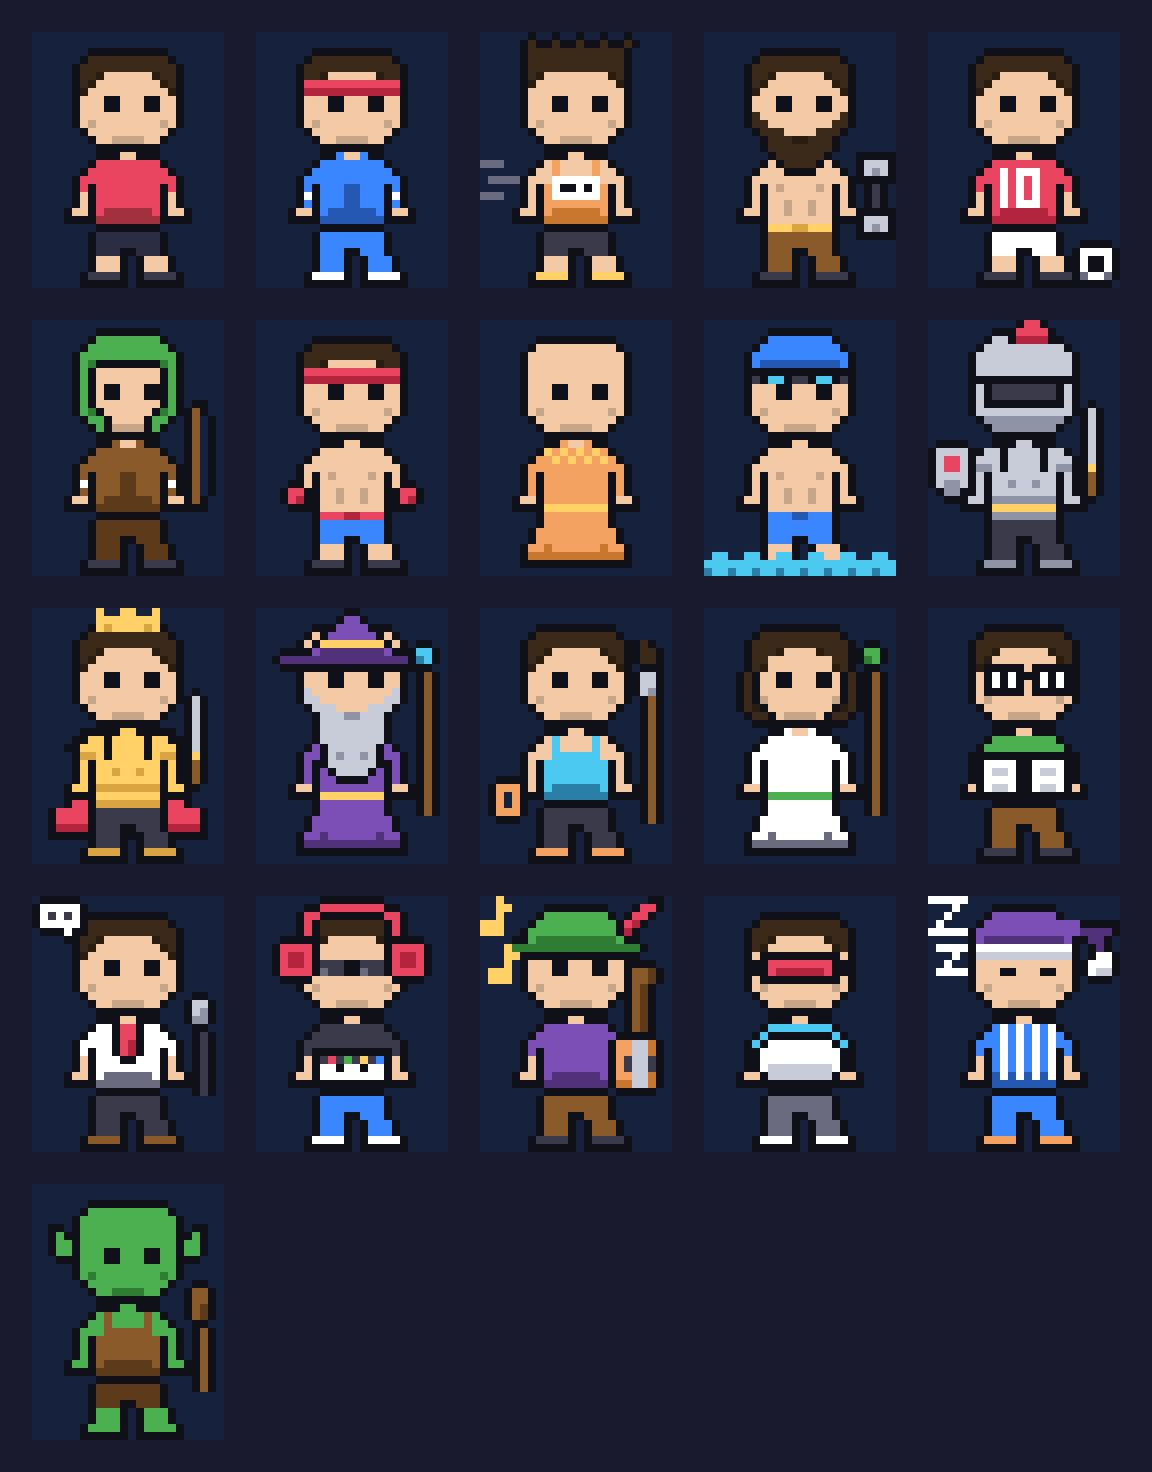
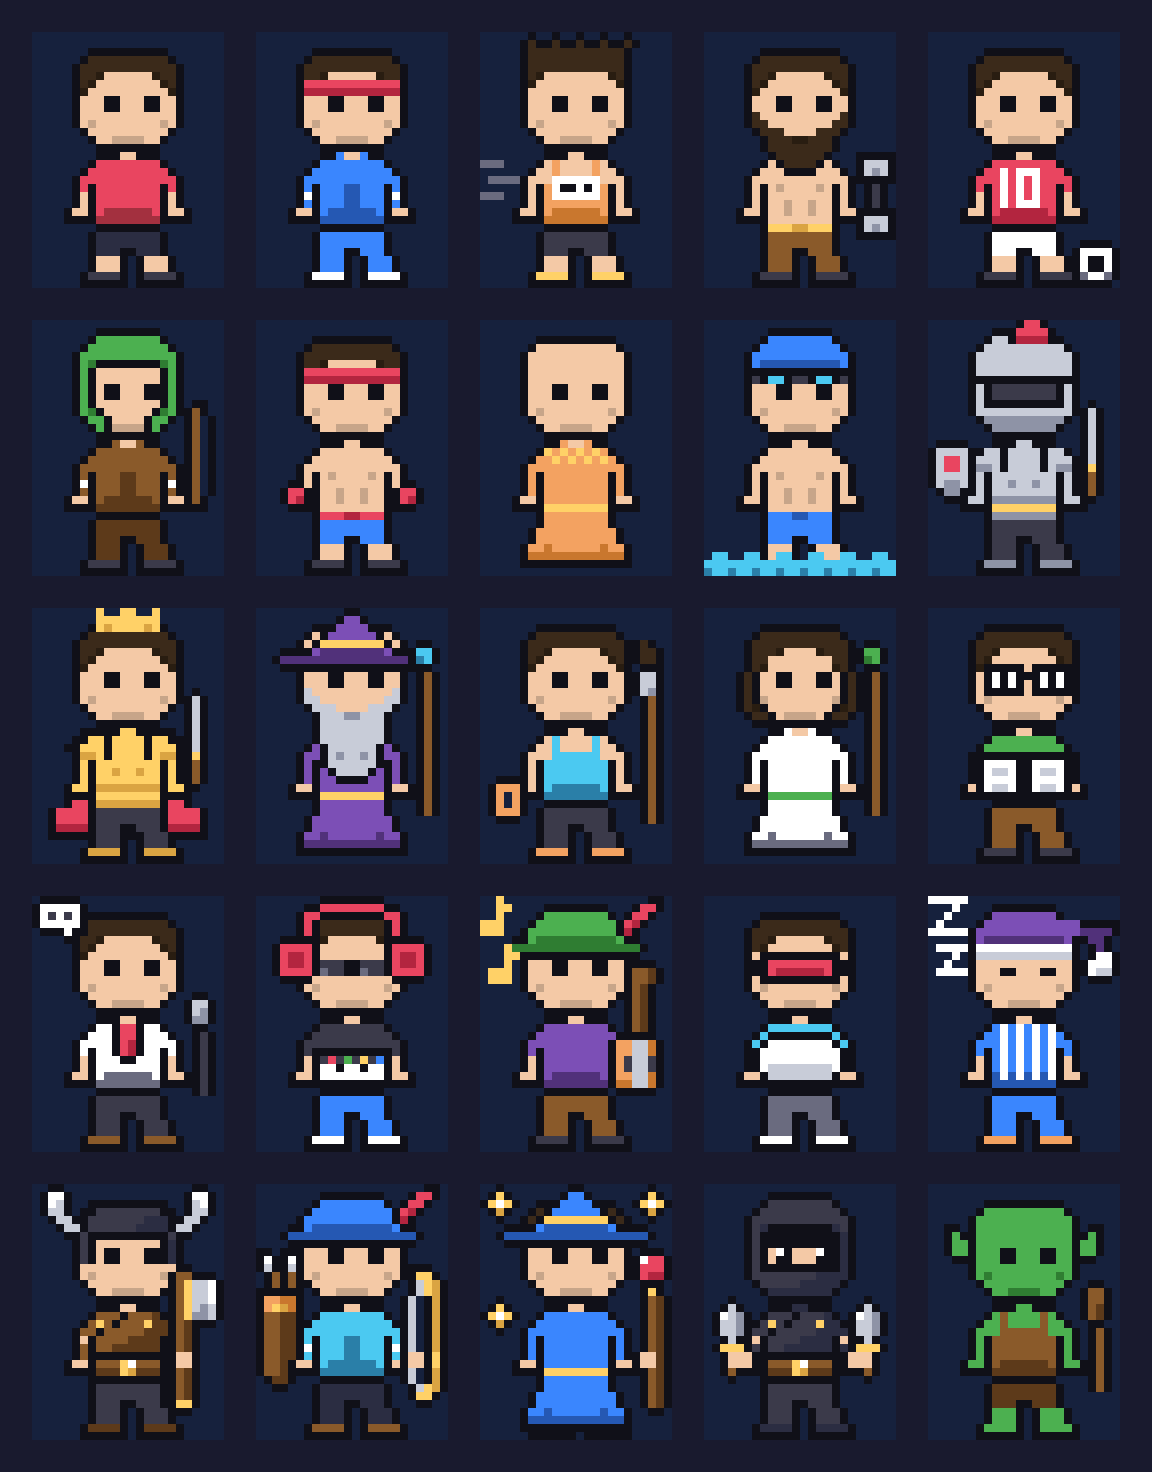
전투 스킨 4종 추가: 전사·궁수·마법사·도적 (Codex 작업)

diff --git a/design/pixel/parts.ts b/design/pixel/parts.ts
@@ -650,3 +650,159 @@ export const ZZZ = part([
   '..W..',
   '.WWWW',
 ], 0, 0)
+
+// ── 전투 직업 파츠: 미배정 시즌 보상 스킨 ──
+/** 얼굴이 드러나는 뿔 투구. 1 주색 2 음영, 뿔은 고정 은색 */
+export const HORNED_HELMET = (c1: string, c2: string) => part([
+  '..KK................KK..',
+  '.KWWK..............KWWK.',
+  '.KWLK...KKKKKKKK...KLWK.',
+  '.KLLK..K11111111K..KLLK.',
+  '..KLLKK1111111222KKLLK..',
+  '...KLLK1111112222KLLK...',
+  '....KK1KKKKKKKKKK1KK....',
+  '.....K1K........K2K.....',
+  '.....K1K........K2K.....',
+  '.....K1K........K2K.....',
+], 0, 0, { 1: c1, 2: c2 })
+
+/** 가죽 조끼·대각선 어깨끈·손목 보호대·버클 허리띠 (1 주색 2 음영) */
+export const LEATHER_ARMOR = (c1: string, c2: string) => part([
+  '........KKKSSKKK........',
+  '.......K111K1112K.......',
+  '......K1Y1K111Y22K......',
+  '.....K11K111112222K.....',
+  '.....KSK11112222KSK.....',
+  '.....K1K11222222K2K.....',
+  '.....K1KKKKKKKKKK2K.....',
+  '....KSSKNNNYWNNNKSSK....',
+  '....KKKKnnnYynnnKKKK....',
+  '.......KKKKKKKKKK.......',
+], 15, 0, { 1: c1, 2: c2 })
+
+/** 넓은 날의 전투 도끼. 2px 목재 자루와 손잡이를 쥔 손까지 몸통 앞에 그린다 */
+export const BATTLE_AXE = part([
+  '.KK....',
+  'KNNKKK.',
+  'KNYLLWK',
+  'KNYLLWK',
+  'KNYLLWK',
+  'KNYLlLK',
+  'KNYllLK',
+  'KNnKKK.',
+  'KNnK...',
+  'KNnK...',
+  'KNnK...',
+  'KSSK...',
+  'KSSK...',
+  'KNnK...',
+  'KNnK...',
+  'KNnK...',
+  'KNnK...',
+  'KYYK...',
+  '.KK....',
+], 10, 17)
+
+/** 왼쪽 어깨 뒤 화살통과 흰 깃 화살 두 개. 머리·몸통보다 먼저 그린다 */
+export const QUIVER = part([
+  'KK.KK.',
+  'KWKKWK',
+  'KLKKLK',
+  '.KNKNK',
+  '.KNKNK',
+  'KKKKKK',
+  'KAAaaK',
+  'KAYyaK',
+  ...Array(8).fill('KNNnnK'),
+  '.KnnK.',
+  '..KK..',
+], 8, 0)
+
+/** 금빛 반곡궁. 은색 시위와 검정 테를 두른 활대를 구분하고 손을 앞에 겹친다 */
+export const RECURVE_BOW = part([
+  '.KKK..',
+  '.KYYK.',
+  '.KLYyK',
+  '.KLYyK',
+  ...Array(7).fill('KL.KyK'),
+  'KSSKYK',
+  'KSSKYK',
+  'KL.KyK',
+  'KL.KyK',
+  '.KLYyK',
+  '.KYYK.',
+  '..KK..',
+], 10, 18)
+
+/** 둥근 구슬과 금빛 받침을 단 지팡이. 1 구슬색 2 구슬 음영 */
+export const ORB_STAFF = (gem: string, gemDark: string) => part([
+  '.KKK.',
+  'KW11K',
+  'K111K',
+  'K122K',
+  '.KKK.',
+  '.KYK.',
+  ...Array(7).fill('.KNnK'),
+  'KSSnK',
+  'KSSnK',
+  ...Array(5).fill('.KNnK'),
+  '..KK.',
+], 8, 19, { 1: gem, 2: gemDark })
+
+/** 모자 양옆과 왼쪽 어깨 옆의 금빛 반짝임. 중앙은 비워 얼굴·모자를 보존한다 */
+export const SPARKLES = part([
+  '..K..................K..',
+  '.KYK................KYK.',
+  'KYWYK..............KYWYK',
+  '.KyK................KyK.',
+  '..K..................K..',
+  ...Array(9).fill('........................'),
+  '..K.....................',
+  '.KYK....................',
+  'KYWYK...................',
+  '.KyK....................',
+  '..K.....................',
+], 0, 0)
+
+/** 후드와 겹쳐 눈만 드러내는 복면. 눈의 흰 점과 목까지 덮는 천 (1 주색 2 음영) */
+export const FACE_WRAP = (c1: string, c2: string) => part([
+  '.....K1KKKKKKKKKK2K.....',
+  '.....K1KKKKKKKKKK2K.....',
+  '.....K1KSWESSSWEK2K.....',
+  '.....K1KSEESSSEEK2K.....',
+  '.....K1KKKKKKKKKK2K.....',
+  '.....K111111112222K.....',
+  '......K1111122222K......',
+  '.......K22222222K.......',
+  '........KKKKKKKK........',
+  '..........K22K..........',
+], 6, 0, { 1: c1, 2: c2 })
+
+/** 쌍단검. 좌우 모두 왼쪽 위에 흰 하이라이트, 손은 몸통 위에 겹친다 */
+export const DAGGER_L = part([
+  '..K...',
+  '.KLK..',
+  'KWLlK.',
+  'KLLlK.',
+  'KLLlK.',
+  '.KLK..',
+  'KYYYK.',
+  '.KSSSK',
+  '.KSSSK',
+  '.KNK..',
+  '..K...',
+], 14, 1)
+
+export const DAGGER_R = part([
+  '...K..',
+  '..KLK.',
+  '.KWLlK',
+  '.KLLlK',
+  '.KLLlK',
+  '..KLK.',
+  '.KYYYK',
+  'KSSSK.',
+  'KSSSK.',
+  '..KNK.',
+  '...K..',
+], 14, 17)

diff --git a/design/pixel/characters.ts b/design/pixel/characters.ts
@@ -95,6 +95,23 @@ export const CHARACTERS: CharacterDef[] = [
     key: 'dreamer', label: '드리머', desc: '슬리퍼의 완성. 수면모자와 줄무늬 잠옷, 머리 위로 zZ.',
     parts: [P.HEAD, P.CLOSED_EYES, P.NIGHTCAP('M', 'm'), P.PAJAMA('B', 'b', 'W'), P.PANTS('B', 'b', 'A'), P.ZZZ],
   },
+  // ── 전투 직업: 미배정 시즌 보상 스킨 ──
+  {
+    key: 'warrior', label: '전사', desc: '뿔 투구와 갈색 가죽 갑옷을 걸치고 커다란 도끼로 전장을 누빈다.',
+    parts: [P.PANTS('X', 'P', 'n'), P.LEATHER_ARMOR('N', 'n'), P.HEAD, P.HAIR_SHORT, P.HORNED_HELMET('X', 'P'), P.BATTLE_AXE],
+  },
+  {
+    key: 'archer', label: '궁수', desc: '파란 깃털 모자와 등 뒤 화살통을 갖추고 금빛 반곡궁으로 먼 표적을 겨눈다.',
+    parts: [P.QUIVER, P.PANTS('P', 'P', 'N'), P.JACKET('C', 'c'), P.HEAD, P.HAIR_SHORT, P.FEATHER_CAP('B', 'b'), P.FEATHER, P.RECURVE_BOW],
+  },
+  {
+    key: 'mage', label: '마법사', desc: '푸른 뾰족 모자와 긴 로브를 두르고 붉은 구슬 지팡이로 금빛 별을 피워 낸다.',
+    parts: [P.PANTS('B', 'b', 'N'), P.ROBE('B', 'b', 'Y'), P.HEAD, P.HAIR_SHORT, P.POINTED_HAT('B', 'b'), P.ORB_STAFF('R', 'r'), P.SPARKLES],
+  },
+  {
+    key: 'rogue', label: '도적', desc: '눈만 드러낸 복면에 어두운 가죽 옷과 허리띠를 두르고 양손 단검으로 그림자 속을 누빈다.',
+    parts: [P.PANTS('X', 'P', 'P'), P.LEATHER_ARMOR('X', 'P'), P.HEAD, P.HOOD('X', 'P'), P.FACE_WRAP('X', 'P'), P.DAGGER_L, P.DAGGER_R],
+  },
   {
     key: 'goblin', label: '나태 고블린', desc: '스트릭이 끊기면 나타나는 훼방꾼. 초록 피부, 뾰족 귀, 몽둥이.',
     parts: [P.HEAD, P.EAR_L, P.EAR_R, P.TANK('N', 'n'), P.SHORTS('n', 'G'), P.CLUB],

diff --git a/design/README.md b/design/README.md
@@ -6,12 +6,12 @@
 ```
 design/
 ├─ README.md             이 문서
-├─ character-sheet.png   캐릭터 21종 미리보기 시트 (npm run sheet 로 재생성)
+├─ character-sheet.png   캐릭터 25종 미리보기 시트 (npm run sheet 로 재생성)
 ├─ pixel/                픽셀 캐릭터 시스템 (앱 의존성 없음, Node/브라우저 공용)
 │  ├─ types.ts           캔버스 규격 24×32, PixelMap / PngSheet / SpriteDef 타입
 │  ├─ palette.ts         문자 → 색 팔레트, 기본 외형 색, toPixelMap()
-│  ├─ parts.ts           파츠 60종 (머리·머리카락·모자·몸통·다리·소품·효과) + compose()
-│  ├─ characters.ts      파츠를 조합한 캐릭터 21종
+│  ├─ parts.ts           파츠 71종 (머리·머리카락·모자·몸통·다리·소품·효과) + compose()
+│  ├─ characters.ts      파츠를 조합한 캐릭터 25종
 │  └─ render-sheet.ts    시트 PNG 생성 스크립트
 └─ theme/
    └─ theme.css          Tailwind v4 @theme 토큰(색·폰트) + 픽셀 UI 컴포넌트 클래스
@@ -47,16 +47,16 @@ design/
 `part(rows, y, x, map)` 로 조각을 만들고 `compose(parts)` 가 순서대로 덮어 그린다(뒤 파츠가 앞 파츠를 가림). 대략의 레이어 순서:
 
 ```
-CAPE/WAVES 같은 뒤 배경 → 다리(PANTS/SHORTS) → 몸통(SHIRT/JACKET/TANK/BARE/ROBE/ARMOR)
-→ 머리(HEAD) → 수염 → 머리카락(HAIR_*) → 모자(HELMET/HOOD/POINTED_HAT/SWIM_CAP/NIGHTCAP/FEATHER_CAP/HEADPHONES) → 얼굴 장식(HEADBAND/SUNGLASSES/GOGGLES/CROWN/ROUND_GLASSES/EYE_MASK/CLOSED_EYES)
-→ 손 소품(SWORD/SHIELD/DUMBBELL/BALL/BOW/TORCH/STAFF/AXE/CLUB/ROPE/MIC/LUTE/BOOK/PILLOW/SYNTH) → 효과(SPEED_LINES/SPEECH_BUBBLE/NOTES/ZZZ)
+CAPE/WAVES/QUIVER 같은 뒤 배경 → 다리(PANTS/SHORTS) → 몸통(SHIRT/JACKET/TANK/BARE/ROBE/ARMOR/LEATHER_ARMOR)
+→ 머리(HEAD) → 수염 → 머리카락(HAIR_*) → 모자(HELMET/HORNED_HELMET/HOOD/POINTED_HAT/SWIM_CAP/NIGHTCAP/FEATHER_CAP/HEADPHONES) → 얼굴 장식(HEADBAND/SUNGLASSES/GOGGLES/CROWN/ROUND_GLASSES/EYE_MASK/CLOSED_EYES/FACE_WRAP)
+→ 손 소품(SWORD/SHIELD/DUMBBELL/BALL/BOW/RECURVE_BOW/TORCH/STAFF/ORB_STAFF/AXE/BATTLE_AXE/DAGGER_L/DAGGER_R/CLUB/ROPE/MIC/LUTE/BOOK/PILLOW/SYNTH) → 효과(SPEED_LINES/SPEECH_BUBBLE/NOTES/ZZZ/SPARKLES)
 ```
 
 새 파츠를 그릴 때 규칙: 행 길이는 파츠 안에서 일정하게, 전폭 파츠는 24칸. 외곽선을 먼저 닫고 안을 채운다. 가는 소품(활·지팡이)은 2px 이상 굵기로, 1px 선은 축소 화면에서 사라진다.
 
 ### 캐릭터 (`characters.ts`)
 
-`{ key, label, desc, parts, recolor? }` 한 줄이 캐릭터 하나. 현재 21종:
+`{ key, label, desc, parts, recolor? }` 한 줄이 캐릭터 하나. 현재 25종:
 
 | key | 이름 | 용도 |
 |---|---|---|
@@ -69,7 +69,13 @@ CAPE/WAVES 같은 뒤 배경 → 다리(PANTS/SHORTS) → 몸통(SHIRT/JACKET/TA
 | bookworm / speaker | 책벌레 / 스피커 | 토커(영어) 중간·완성 단계 |
 | dj / bard | 디제이 / 바드 | 사운드메이커 중간·완성 단계 |
 | napper / dreamer | 낮잠꾼 / 드리머 | 슬리퍼(수면) 중간·완성 단계 |
+| warrior | 전사 | 미배정 시즌 보상. 뿔 투구·갈색 가죽 갑옷·대형 도끼 |
+| archer | 궁수 | 미배정 시즌 보상. 파란 깃털 모자·화살통·금빛 반곡궁 |
+| mage | 마법사 | 미배정 시즌 보상. 푸른 뾰족 모자·긴 로브·붉은 구슬 지팡이·별빛 |
+| rogue | 도적 | 미배정 시즌 보상. 복면·어두운 가죽 옷·허리띠·양손 단검 |
 | goblin | 나태 고블린 | 적. 스트릭이 끊기면 등장 (`recolor` 로 피부를 초록으로) |
+
+전투 스킨 4종은 특정 분야 전직에 배정하지 않는다. 앱 편집 → 시즌 화면에서 보상 스킨으로 해당 key를 고를 수 있다.
 
 미리보기: `npm run sheet` → `design/character-sheet.png`.
 
